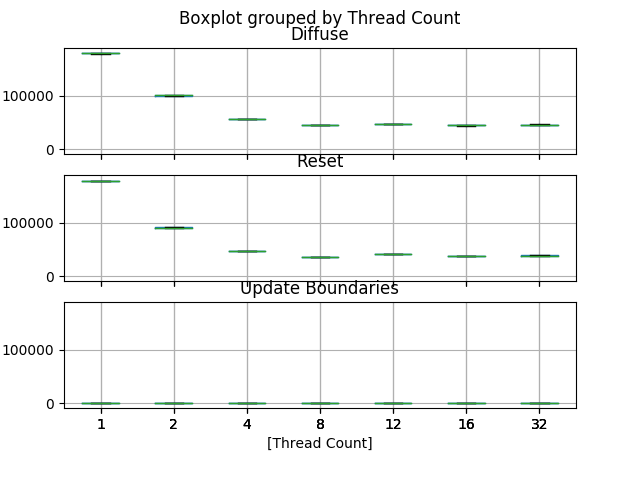
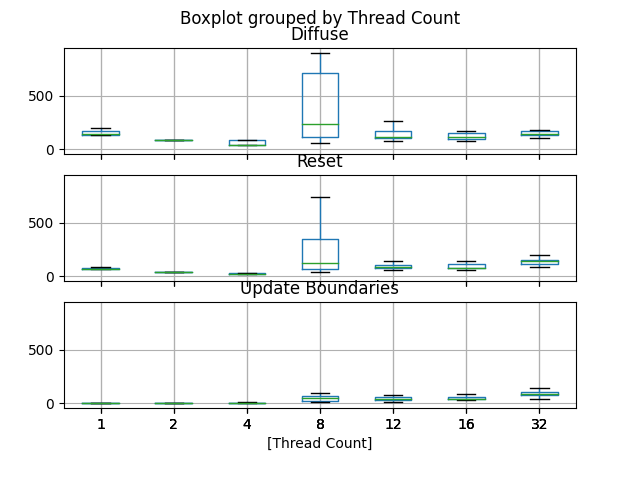
Add more graphs -> size of square

diff --git a/deqn/analysis.py b/deqn/analysis.py
@@ -11,8 +11,38 @@ def get_time_from_timing_line(line):
     string_time = line.split(" ")[3]
     return float(string_time)
 
-def run_deqn(environment_variables = {}):
-    process_output = subprocess.run(["bash", "./run_local.sh"], stdout=subprocess.PIPE, env={**os.environ, **environment_variables})
+class DeqnConfigFile:
+    def __init__(self):
+        self.nx = 1000
+        self.ny = 1000
+        self.xmin = 0.0
+        self.ymin = 0.0
+        self.xmax = 1000.0
+        self.ymax = 1000.0
+        self.initial_dt = 0.04
+        self.end_time = 1.80
+        self.scheme = "explicit"
+        self.vis_frequency = -1
+        self.subregion = (30.0, 30.0, 60.0, 60.0)
+    
+    def save_to_file(self, filepath):
+        with open(filepath, "w") as fh:
+            fh.writelines([
+                f"nx {self.nx}\n",
+                f"ny {self.ny}\n",
+                f"xmin {self.xmin}\n",
+                f"ymin {self.ymin}\n",
+                f"xmax {self.xmax}\n",
+                f"ymax {self.ymax}\n",
+                f"initial_dt {self.initial_dt}\n",
+                f"end_time {self.end_time}\n",
+                f"scheme {self.scheme}\n",
+                f"vis_frequency {self.vis_frequency}\n",
+                f"subregion {self.subregion[0]} {self.subregion[1]} {self.subregion[2]} {self.subregion[3]}\n",
+            ])
+
+def run_deqn(filepath, environment_variables = {}):
+    process_output = subprocess.run(["bash", "./run_for_python.sh", filepath], stdout=subprocess.PIPE, env={**os.environ, **environment_variables})
     output_lines = process_output.stdout.decode().split("\n")
 #    print(process_output.stdout)
     timing_lines = [line for line in output_lines if "seconds" in line]
@@ -23,23 +53,25 @@ def run_deqn(environment_variables = {}):
         diffuse_time = get_time_from_timing_line(timing_lines[i])
         reset_time = get_time_from_timing_line(timing_lines[i + 1])
         update_boundaries_time = get_time_from_timing_line(timing_lines[i + 2])
-        timing_results.append([i // 3, diffuse_time, reset_time, update_boundaries_time])
+        timing_results.append([i // 3, diffuse_time, reset_time, update_boundaries_time, diffuse_time + reset_time + update_boundaries_time])
 
     # print(timing_results)
-    df = pd.DataFrame(timing_results, columns=("Iteration", "Diffuse", "Reset", "Update Boundaries"))
+    df = pd.DataFrame(timing_results, columns=("Iteration", "Diffuse", "Reset", "Update Boundaries", "Total"))
     # print(df)
     return df
 
-def time_against_thread_count():
+def time_against_thread_count_by_function():
+    print("time_against_thread_count_by_function")
     df = pd.DataFrame({
         "Thread Count": pd.Series(dtype='int32'),
         "Iteration": pd.Series(dtype='int32'),
         "Diffuse": pd.Series(dtype='float'),
         "Reset": pd.Series(dtype='float'),
-        "Update Boundaries": pd.Series(dtype='float')
+        "Update Boundaries": pd.Series(dtype='float'),
+        "Total": pd.Series(dtype='float')
         })
     for thread_count in [1, 2, 4, 8, 12, 16, 32]:
-        df_for_thread_count = run_deqn({"OMP_NUM_THREADS":str(thread_count)})
+        df_for_thread_count = run_deqn(os.path.join(os.path.pardir, "test", "mega_ultra_square.in"), {"OMP_NUM_THREADS":str(thread_count)})
         df_for_thread_count["Thread Count"] = thread_count
         df = pd.concat([df, df_for_thread_count], ignore_index = True)
     print(df)
@@ -51,10 +83,50 @@ def time_against_thread_count():
     # plt.boxplot(thread_means_df["Update Boundaries"], vert=True)
     print(df.dtypes)
     df = df.drop(columns=["Iteration"])
-    df.boxplot(by="Thread Count", showfliers=False, layout=(3, 1))
-    plt.savefig("plots/time_against_thread_count.png")
+    for attribute in ["Diffuse", "Reset", "Update Boundaries", "Total"]:
+        df[["Thread Count", attribute]].boxplot(by="Thread Count", showfliers=False)
+        plt.savefig(f"plots/time_against_thread_count_attribute_f{attribute.lower().replace(' ', '_')}.png")
+
+def time_against_square_size_by_thread_count():
+    print("time_against_square_size_by_thread_count")
+    df = pd.DataFrame({
+        "Square Size": pd.Series(dtype='int32'),
+        "Thread Count": pd.Series(dtype='int32'),
+        "Iteration": pd.Series(dtype='int32'),
+        "Diffuse": pd.Series(dtype='float'),
+        "Reset": pd.Series(dtype='float'),
+        "Update Boundaries": pd.Series(dtype='float'),
+        "Total": pd.Series(dtype='float')
+        })
+    deqn_config_filepath = os.path.join("test", "tmp_square_by_threadcount.in")
+    
+    square_sizes = [2**x for x in range(3, 14)]
+    thread_counts = [1, 2, 4, 8]
+    for square_size in square_sizes:
+        for thread_count in thread_counts:
+            print("Square size: ", square_size, "  Thread count: ", thread_count)
+            deqn_config_file = DeqnConfigFile()
+            deqn_config_file.nx = square_size
+            deqn_config_file.ny = square_size
+            deqn_config_file.xmax = float(square_size)
+            deqn_config_file.ymax = float(square_size)
+            deqn_config_file.save_to_file(deqn_config_filepath)
+
+            df_for_thread_count = run_deqn(os.path.join(os.path.pardir, deqn_config_filepath), {"OMP_NUM_THREADS":str(thread_count)})
+            df_for_thread_count["Square Size"] = square_size
+            df_for_thread_count["Thread Count"] = thread_count
+            df = pd.concat([df, df_for_thread_count], ignore_index = True)
+    df_by_size = df.groupby(["Square Size", "Thread Count"], as_index=False).mean()
+    for thread_count in thread_counts:
+        plt.plot(square_sizes, df_by_size[df_by_size["Thread Count"] == thread_count]["Total"], label=f"{thread_count}T")
+    plt.xlabel("Square edge length")
+    plt.ylabel("Total time (microseconds)")
+    plt.legend()
+    plt.xscale('log')
+    plt.yscale('log')
     plt.show()
 
 if __name__ == "__main__":
-    run_deqn({"OMP_NUM_THREADS":"2"})
-    time_against_thread_count()
+    # run_deqn({"OMP_NUM_THREADS":"2"})
+    # time_against_thread_count_by_function()
+    time_against_square_size_by_thread_count()

diff --git a/deqn/src/ExplicitScheme.C b/deqn/src/ExplicitScheme.C
@@ -65,6 +65,7 @@ void ExplicitScheme::reset()
         int end = POLY2(x_max + 1,k,x_min-1,y_min-1,nx);
         std::memcpy(&u0[start], &u1[start], sizeof(double) * (end - start));
     }
+    // mesh->switchMatricies();
     // int *n = mesh->getNx();
     // #pragma omp parallel for firstprivate(u0, u1, x_min, x_max, y_min, y_max, nx) schedule(static)
     // for (int k = 0; k < (n[0] + 2) * (n[1] + 2); k++) {

diff --git a/deqn/src/Mesh.C b/deqn/src/Mesh.C
@@ -82,6 +82,13 @@ double* Mesh::getU1()
     return u1;
 }
 
+void Mesh::switchMatricies()
+{
+    double* tmp = u0;
+    u0 = u1;
+    u1 = tmp;
+}
+
 double* Mesh::getDx()
 {
     return dx;

diff --git a/deqn/src/Mesh.h b/deqn/src/Mesh.h
@@ -40,6 +40,7 @@ class Mesh {
                 
         double* getU0();
         double* getU1();
+        void switchMatricies();
 
         double* getDx();
         int* getNx();
